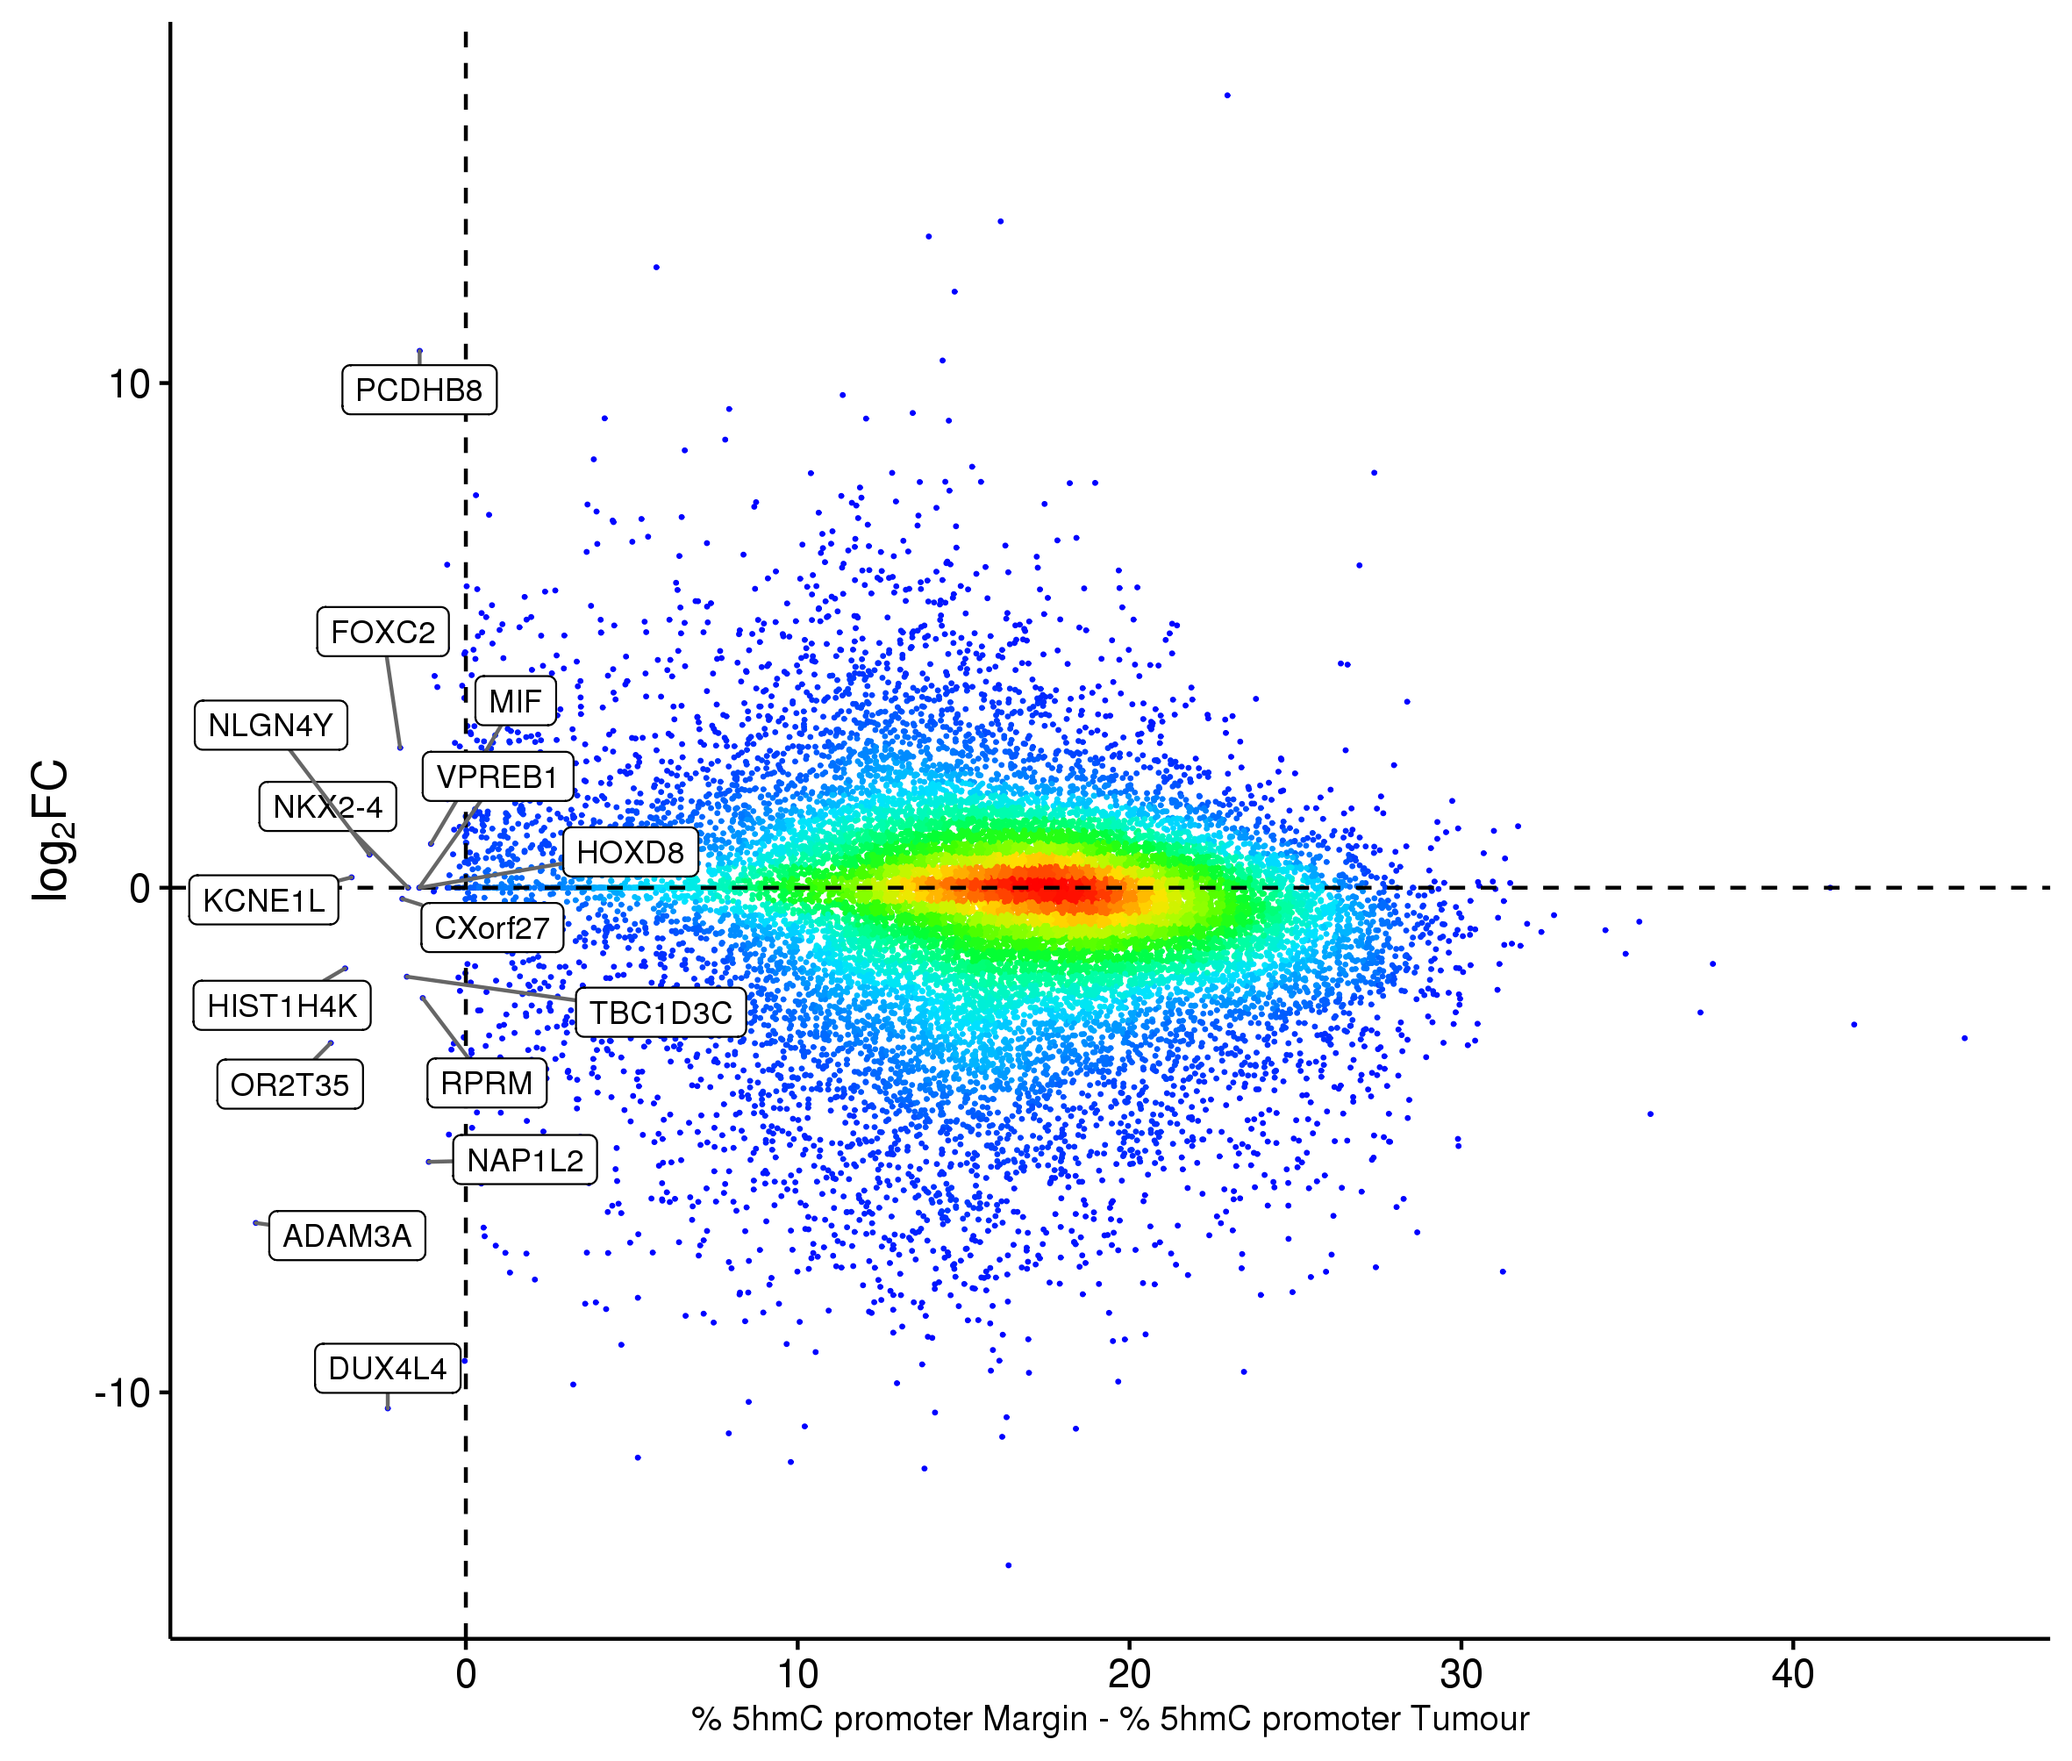
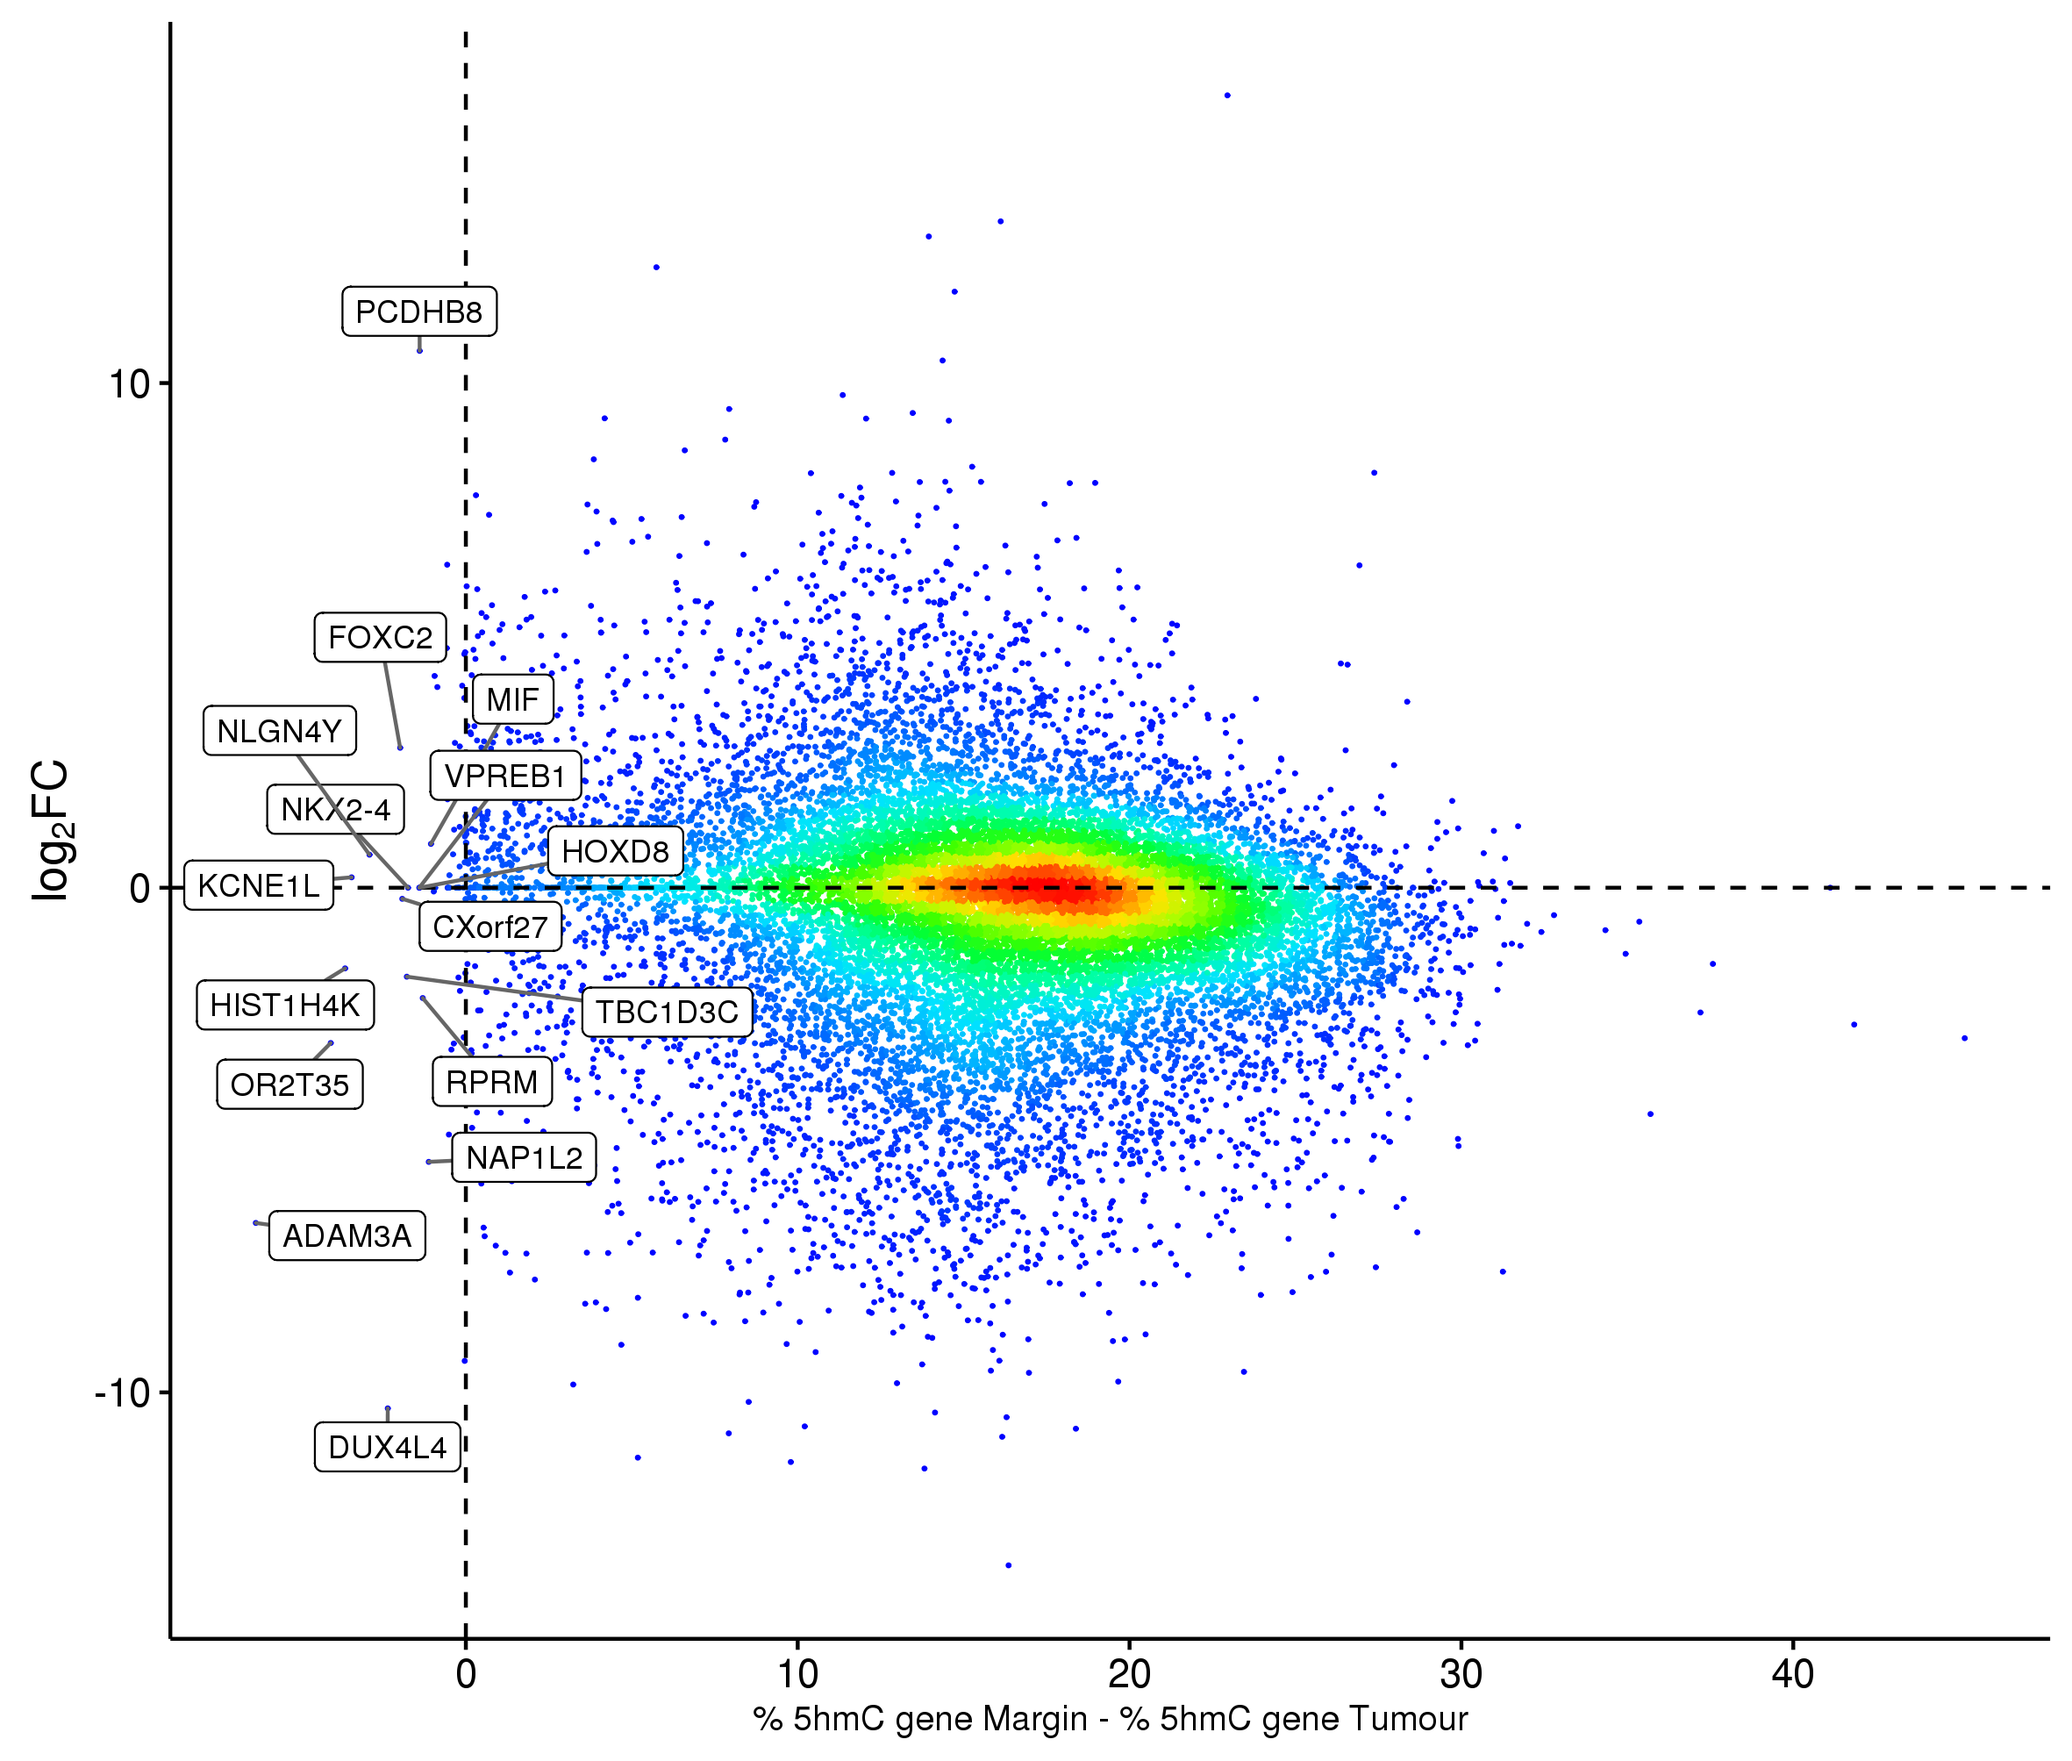
fix bug

diff --git a/20170425_genebody_5hmC/20170425_genebody_5hmC.md b/20170425_genebody_5hmC/20170425_genebody_5hmC.md
@@ -130,10 +130,10 @@ geneLst <- geneset[ncyt == nlibs & ndepth == nlibs, gene_name]
 genes[, pct_met := 100 * (cnt_met/cnt_tot)]
 genemet <- dcast.data.table(data = genes[gene_name %in% geneLst], gene_name ~ library_id, value.var= 'pct_met')
 setnames(genemet, names(genemet), c('gene_name', 'ear042_M8BS', 'ear043_M8oxBS', 'ear044_T3BS', 'ear045_T3oxBS'))
-genemet <- genemet[, list(gene_name, 
-   mar_mc = ear043_M8oxBS, 
-   mar_hmc = ear042_M8BS - ear043_M8oxBS, 
-   tum_mc = ear045_T3oxBS, 
+genemet <- genemet[, list(gene_name,
+   mar_mc = ear043_M8oxBS,
+   mar_hmc = ear042_M8BS - ear043_M8oxBS,
+   tum_mc = ear045_T3oxBS,
    tum_hmc = ear044_T3BS - ear045_T3oxBS)]
 
 genemet[, mar_hmc := ifelse(mar_hmc < 0, 0, mar_hmc)]
@@ -180,7 +180,7 @@ geom_point(size = 0.1, color = densCols(metexpr$diff_hmc, metexpr$tpmLog2FC, col
 geom_hline(yintercept = 0, col= 'black', linetype= 'dashed') +
 geom_vline(xintercept = 0, col= 'black', linetype= 'dashed') +
 theme_classic() +
-xlab("% 5hmC promoter Margin - % 5hmC promoter Tumour") +
+xlab("% 5hmC gene Margin - % 5hmC gene Tumour") +
 ylab(expression("log"[2]*"FC")) +
 theme(axis.text.x = element_text(size=11), axis.text.y = element_text(size=11), axis.title.x = element_text(size=9.5), axis.title.y = element_text(size=13)) +
 geom_label_repel(data = metexpr[diff_hmc < -1], aes(label = gene_name), size=3, force = 1)
@@ -193,7 +193,7 @@ geom_point(size = 0.1, color = densCols(metexpr$diff_hmc, metexpr$tpmLog2FC, col
 geom_hline(yintercept = 0, col= 'black', linetype= 'dashed') +
 geom_vline(xintercept = 0, col= 'black', linetype= 'dashed') +
 theme_classic() +
-xlab("% 5hmC promoter Margin - % 5hmC promoter Tumour") +
+xlab("% 5hmC gene Margin - % 5hmC gene Tumour") +
 ylab(expression("log"[2]*"FC")) +
 theme(axis.text.x = element_text(size=11), axis.text.y = element_text(size=11), axis.title.x = element_text(size=9.5), axis.title.y = element_text(size=13)) +
 
@@ -209,5 +209,3 @@ With names:
 Without names:
 
 <img src="figures/20170426_genebodies_5hmC_difference_log2FC_genenames_ggrepel_nonames.png" width="800">
-
-

diff --git a/20150501_methylation_brain/20160531_figure_editing.md b/20150501_methylation_brain/20160531_figure_editing.md
@@ -399,7 +399,7 @@ prommet<- dcast.data.table(data= proms[gene_name %in% promLst], gene_name ~ libr
 prommet<- prommet[, list(gene_name,
                mar_mc= ear043_M8oxBS,  
                mar_hmc= ear042_M8BS - ear043_M8oxBS,
-               tum_mc= ear044_T3BS,
+               tum_mc= ear045_T3oxBS,
                tum_hmc= ear044_T3BS - ear045_T3oxBS)]
 prommet[, mar_hmc := ifelse(mar_hmc < 0, 0, mar_hmc)]
 prommet[, tum_hmc := ifelse(tum_hmc < 0, 0, tum_hmc)]
